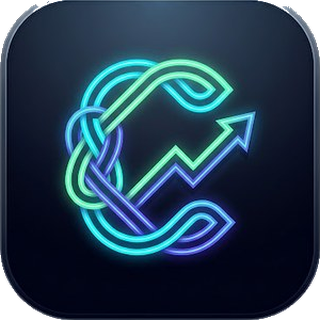
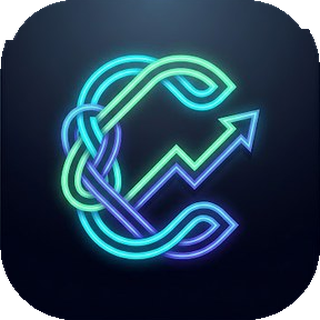
fix(app): no light rim on the dark emblem, measured rather than eyeballed
Three approaches failed before this one and each failed differently, which
is why it took so long to see what the shape of the problem was.

Flooding white in from the corners cleared the field and left the bezel.
Eroding the alpha inwards cleared the sides and left a flat light bar
across the top and bottom, because the crop had cut the artwork flush
there so the bezel was neither a corner nor an edge. Flooding bright in
from every edge took the bezel but left its gradient tail, a thin rim
sitting around luminance 40 on a page at 23, which is exactly the "slight
white" that was still showing.

The mask is grown outward from the mark's own dark field now, rather than
cut inward from the frame. A flood from inside stops dead at the bezel
because the field is very dark and the bezel very bright, the neon strokes
come back as holes the outside cannot reach, and the edge is then eroded
by an amount that was measured instead of guessed: the perimeter ring's
median luminance is 40 at five pixels and 12 at thirteen.

On the live page the pixels immediately outside the mark now read a median
of 18 against a page background of 23, so the boundary is darker than what
surrounds it rather than lighter. The script is kept at
scripts/emblem-alpha.py with the three failures written down, because the
next asset will have the same bezel.

diff --git a/scripts/emblem-alpha.py b/scripts/emblem-alpha.py
@@ -1,0 +1,89 @@
+# How the dark emblem got its transparency, kept so it is repeatable.
+#
+# The mark is a dark squircle with a bright silver bezel, delivered as a
+# jpeg on a white field. On a dark page that bezel reads as white around
+# the logo, and three approaches failed before this one:
+#
+#   flooding white in from the corners   cleared the field, left the bezel
+#   eroding the alpha inwards            cleared the sides, left a flat bar
+#                                        across the top and bottom, because
+#                                        the crop had cut the artwork flush
+#                                        there
+#   flooding bright in from every edge   left the bezel's gradient tail, a
+#                                        thin light rim at about luminance
+#                                        40 against a page at 23
+#
+# What works is to grow the mark outward from its own dark field instead of
+# cutting inward from the frame, fill the neon back in as enclosed holes,
+# then erode by a measured amount rather than a guessed one. The erosion
+# was chosen by measuring the perimeter ring: at 5 the median sits at 40 and
+# is visible, at 13 it sits at 12 and is not.
+#
+# Usage: python3 scripts/emblem-alpha.py 13 save
+from PIL import Image, ImageFilter
+from collections import deque
+import sys, os
+
+SRC = 'SOURCE_IMAGE'
+lum = lambda p: (p[0] + p[1] + p[2]) // 3
+ERODE = int(sys.argv[1])
+
+im = Image.open(SRC).convert('RGBA')
+w, h = im.size; px = im.load(); DARK = 130
+
+seeds = []
+for walk in ([(x, h//2) for x in range(w)], [(x, h//2) for x in range(w-1,-1,-1)],
+             [(w//2, y) for y in range(h)], [(w//2, y) for y in range(h-1,-1,-1)]):
+    bright = False
+    for c in walk:
+        L = lum(px[c])
+        if L >= 150: bright = True
+        elif bright and L < DARK: seeds.append(c); break
+
+inside = [[False]*w for _ in range(h)]; q = deque()
+for s in seeds:
+    if not inside[s[1]][s[0]]: inside[s[1]][s[0]] = True; q.append(s)
+while q:
+    x, y = q.popleft()
+    for dx, dy in ((1,0),(-1,0),(0,1),(0,-1)):
+        nx, ny = x+dx, y+dy
+        if 0<=nx<w and 0<=ny<h and not inside[ny][nx] and lum(px[nx,ny]) < DARK:
+            inside[ny][nx] = True; q.append((nx,ny))
+
+outside = [[False]*w for _ in range(h)]; q = deque()
+for x in range(w):
+    for y in (0, h-1):
+        if not inside[y][x]: outside[y][x] = True; q.append((x,y))
+for y in range(h):
+    for x in (0, w-1):
+        if not inside[y][x] and not outside[y][x]: outside[y][x] = True; q.append((x,y))
+while q:
+    x, y = q.popleft()
+    for dx, dy in ((1,0),(-1,0),(0,1),(0,-1)):
+        nx, ny = x+dx, y+dy
+        if 0<=nx<w and 0<=ny<h and not outside[ny][nx] and not inside[ny][nx]:
+            outside[ny][nx] = True; q.append((nx,ny))
+
+mask = Image.new('L',(w,h),0); mp = mask.load()
+for y in range(h):
+    for x in range(w):
+        if inside[y][x] or not outside[y][x]: mp[x,y] = 255
+if ERODE > 1: mask = mask.filter(ImageFilter.MinFilter(ERODE))
+mask = mask.filter(ImageFilter.GaussianBlur(0.6)).point(lambda v: 0 if v < 150 else 255)
+
+box = mask.getbbox()
+im.putalpha(mask)
+out = im.crop(box).resize((320,320), Image.LANCZOS)
+
+p = out.load(); ring = []
+for y in range(320):
+    for x in range(320):
+        if p[x,y][3] == 0: continue
+        if any(not (0<=x+dx<320 and 0<=y+dy<320) or p[x+dx,y+dy][3]==0
+               for dx,dy in ((1,0),(-1,0),(0,1),(0,-1))):
+            ring.append(lum(p[x,y]))
+ring.sort()
+print(f'erode={ERODE:>2}  ring n={len(ring):>4}  median={ring[len(ring)//2]:>3}  p95={ring[int(len(ring)*0.95)]:>3}  max={ring[-1]:>3}')
+if len(sys.argv) > 2:
+    out.save('emblem-dark.png','PNG',optimize=True)
+    print('saved', f'{os.path.getsize("emblem-dark.png")/1024:.0f} KB')
